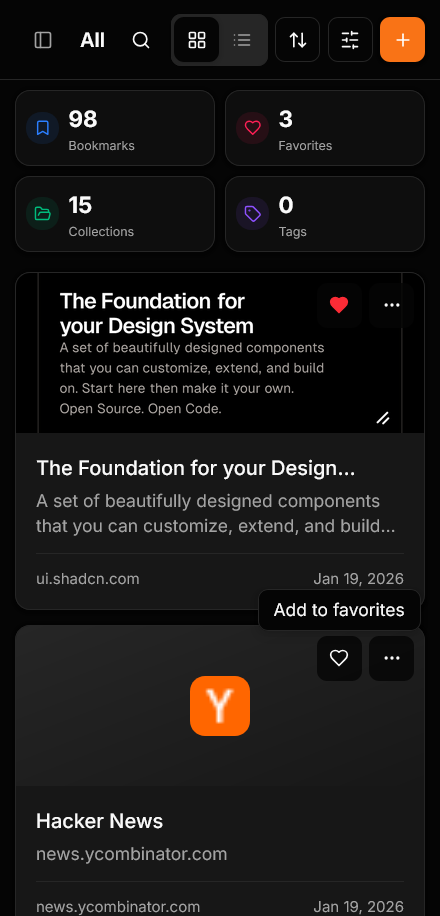
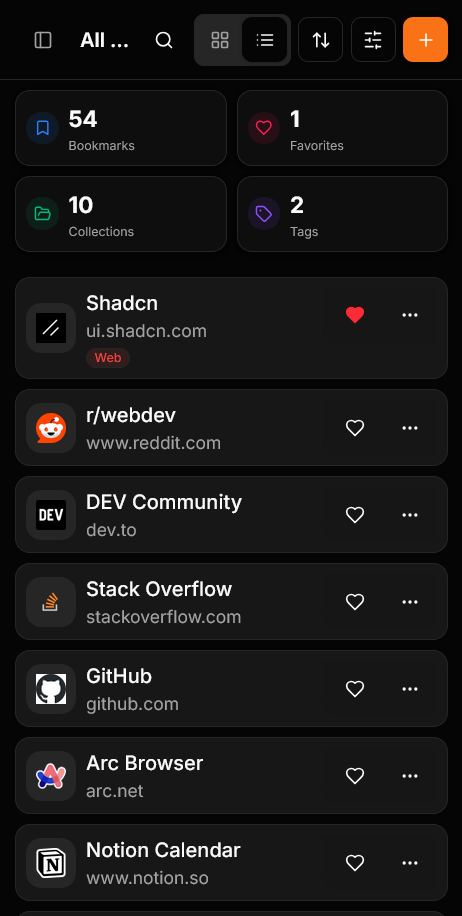
added a char limit

diff --git a/src/components/bookmarks/BookmarkList.tsx b/src/components/bookmarks/BookmarkList.tsx
@@ -13,7 +13,7 @@ import {
     TooltipTrigger,
 } from '@/components/ui/tooltip'
 import { useBookmarkStore } from '@/store/bookmark-store'
-import { getDomainFromUrl, getFaviconUrl, cn } from '@/lib/utils'
+import { getDomainFromUrl, getFaviconUrl, cn, truncateText } from '@/lib/utils'
 import type { Bookmark } from '@/types'
 import {
     Heart,
@@ -95,7 +95,8 @@ function BookmarkListItem({ bookmark, onEdit }: BookmarkListItemProps) {
                         className="font-medium truncate cursor-pointer hover:text-primary transition-colors"
                         onClick={handleOpenUrl}
                     >
-                        {bookmark.title}
+                        <span className="md:hidden">{truncateText(bookmark.title, 20)}</span>
+                        <span className="hidden md:inline">{bookmark.title}</span>
                     </h3>
                     {/* Tags next to title - visible on md+ */}
                     <div className="hidden md:flex items-center gap-1.5 shrink-0">
@@ -121,7 +122,8 @@ function BookmarkListItem({ bookmark, onEdit }: BookmarkListItemProps) {
                 </div>
                 {/* Domain */}
                 <div className="text-sm text-muted-foreground truncate">
-                    {domain}
+                    <span className="md:hidden">{truncateText(domain, 30)}</span>
+                    <span className="hidden md:inline">{domain}</span>
                 </div>
                 {/* Tags on mobile - show on new line */}
                 {bookmarkTags.length > 0 && (

diff --git a/src/lib/utils.ts b/src/lib/utils.ts
@@ -35,3 +35,8 @@ export function formatDate(dateString: string): string {
         year: 'numeric'
     })
 }
+
+export function truncateText(text: string, maxLength: number): string {
+    if (text.length <= maxLength) return text
+    return text.slice(0, maxLength) + '...'
+}
